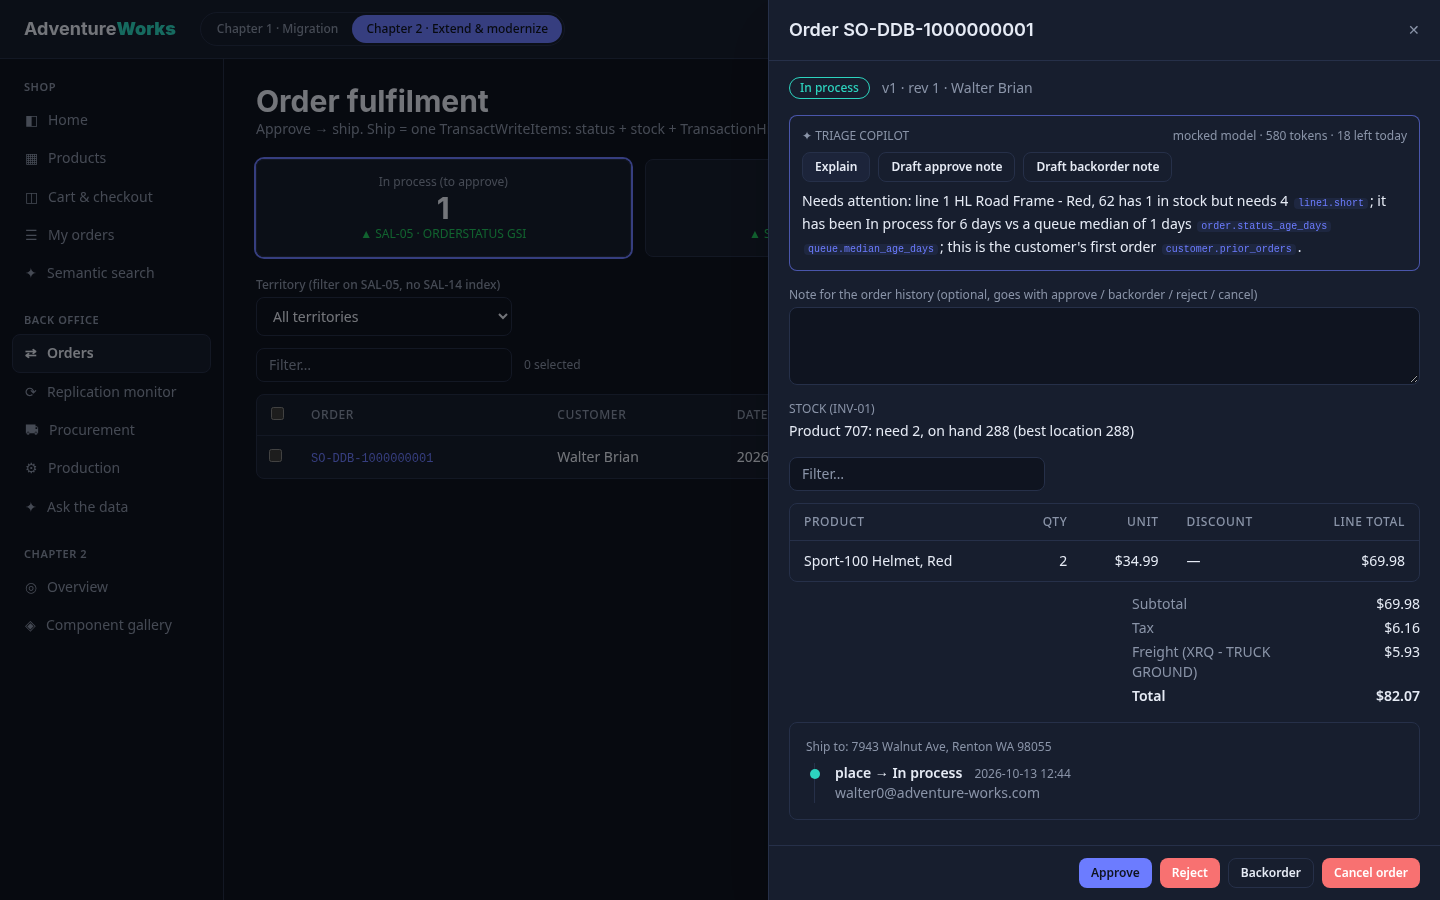
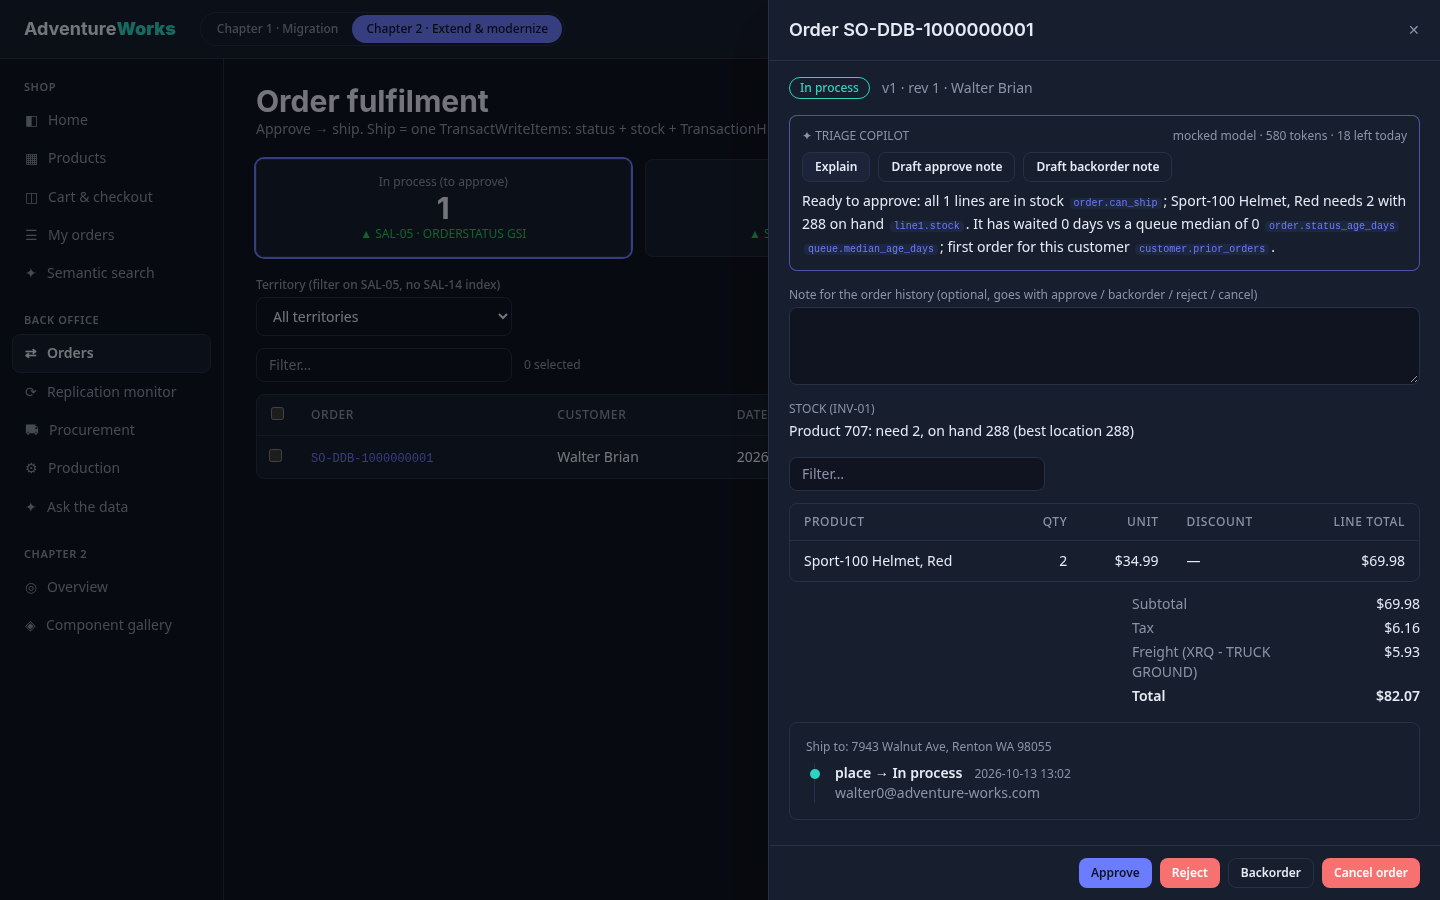
C2-6 mock triage text built from the shown order's facts; screenshots

Changed region(s): [[0.5625, 0.2178, 0.9688, 0.28]]

diff --git a/src/web/e2e/mockAi.ts b/src/web/e2e/mockAi.ts
@@ -17,20 +17,30 @@ const key = (q: string) => q.toLowerCase().replace(/[^a-z0-9]+/g, ' ').trim()
 
 const assist = (feature: string, kind: string, text: string, facts: Record<string, unknown>) => ({ feature, kind, text, facts,
   cites: [...text.matchAll(/\[([a-z0-9_.]+)\]/g)].map(m => m[1]), blocked: null, error: null, inputTokens: 520, outputTokens: 60, questionsLeft: 18, tokensLeft: 38800, mode: 'mock' })
-const orderFacts = { 'order.number': 'SO75123', 'order.status': 'In process', 'order.status_age_days': 6, 'queue.median_age_days': 1, 'order.lines': 2, 'order.total_due': 3953.99,
-  'order.ship_method': 'CARGO TRANSPORT 5', 'order.can_ship': false, 'customer.prior_orders': 0, 'line1.product': 'HL Road Frame - Red, 62', 'line1.qty': 4, 'line1.stock': 1, 'line1.short': 3,
-  'line2.product': 'Sport-100 Helmet, Blue', 'line2.qty': 1, 'line2.stock': 220, 'line2.short': 0 }
-export const triageMock = (kind: string) => kind === 'explain'
-  ? assist('triage', 'triage-explain', 'Needs attention: line 1 HL Road Frame - Red, 62 has 1 in stock but needs 4 [line1.short]; it has been In process for 6 days vs a queue median of 1 days [order.status_age_days] [queue.median_age_days]; this is the customer\'s first order [customer.prior_orders].', orderFacts)
-  : kind === 'approve-note' ? assist('triage', 'triage-approve-note', 'Approved SO75123 [order.number]: all 2 lines in stock [order.can_ship], 3953.99 due [order.total_due], ships via CARGO TRANSPORT 5 [order.ship_method].', orderFacts)
-  : assist('triage', 'triage-backorder-note', 'Backordered SO75123 [order.number]: HL Road Frame - Red, 62 short by 3 (in stock 1, ordered 4) [line1.short]. Ship once stock arrives.', orderFacts)
+type MockOrder = { number: string; status: number; orderDate?: unknown; totalDue?: unknown; shipMethodName?: unknown; lines: { name?: unknown; quantity: number; productId: number }[] }
+const stockOf = (pid: number) => (pid === 749 ? 3 : 288)
+// facts built from the order shown (like TriageFacts on the server), so the text matches the drawer
+export function orderFacts(o: MockOrder): Record<string, unknown> {
+  const f: Record<string, unknown> = { 'order.number': o.number, 'order.status': ['', 'In process', 'Approved', 'Backordered'][o.status] ?? String(o.status), 'order.status_age_days': 0,
+    'queue.median_age_days': 0, 'order.lines': o.lines.length, 'order.total_due': o.totalDue, 'order.ship_method': o.shipMethodName, 'customer.prior_orders': 0 }
+  o.lines.forEach((l, i) => { const s = stockOf(l.productId); Object.assign(f, { [`line${i + 1}.product`]: l.name, [`line${i + 1}.qty`]: l.quantity, [`line${i + 1}.stock`]: s, [`line${i + 1}.short`]: Math.max(0, l.quantity - s) }) })
+  f['order.can_ship'] = o.lines.every((_, i) => f[`line${i + 1}.short`] === 0)
+  return f
+}
+export function triageMock(kind: string, o: MockOrder) {
+  const f = orderFacts(o); const short = o.lines.findIndex((_, i) => (f[`line${i + 1}.short`] as number) > 0); const n = short + 1
+  if (kind === 'explain') return assist('triage', 'triage-explain', short >= 0
+    ? `Needs attention: line ${n} ${f[`line${n}.product`]} has ${f[`line${n}.stock`]} in stock but needs ${f[`line${n}.qty`]} [line${n}.short]. This is the customer's first order [customer.prior_orders].`
+    : `Ready to approve: all ${f['order.lines']} lines are in stock [order.can_ship]; ${f['line1.product']} needs ${f['line1.qty']} with ${f['line1.stock']} on hand [line1.stock]. It has waited ${f['order.status_age_days']} days vs a queue median of ${f['queue.median_age_days']} [order.status_age_days] [queue.median_age_days]; first order for this customer [customer.prior_orders].`, f)
+  if (kind === 'approve-note') return assist('triage', 'triage-approve-note', `Approved ${o.number} [order.number]: all ${f['order.lines']} lines in stock [order.can_ship], ${f['order.total_due']} due [order.total_due], ships via ${f['order.ship_method']} [order.ship_method].`, f)
+  return assist('triage', 'triage-backorder-note', short >= 0 ? `Backordered ${o.number} [order.number]: ${f[`line${n}.product`]} short by ${f[`line${n}.short`]} [line${n}.short]. Ship once stock arrives.` : `Backordered ${o.number} [order.number] at the customer's request; all ${f['order.lines']} lines are in stock [order.can_ship].`, f)
+}
 
 export function aiMock() {
   let left = 20, tokens = 40000
   const status = () => ({ enabled: true, mode: 'mock', chatModel: 'amazon.nova-pro-v1:0', embeddingModel: 'amazon.titan-embed-text-v2:0', rowLimit: 200, timeoutSeconds: 15,
     questionsLeft: left, tokensLeft: tokens, warehouseConnected: true })
   return (p: string, m: string, url: URL, body: () => Record<string, unknown>): { status?: number; json: unknown } | null => {
-    const tri = p.match(/^\/back-office\/orders\/\d+\/assist\/([a-z-]+)$/); if (tri) return { json: triageMock(tri[1]) }
     if (p === '/ai/status') return { json: status() }
     if (p === '/ai/examples') return { json: examples }
     if (p === '/ai/search') return { json: { query: url.searchParams.get('q'), mode: 'mock', hits } }

diff --git a/src/web/e2e/mockApi.ts b/src/web/e2e/mockApi.ts
@@ -1,7 +1,7 @@
 import type { Page, Route } from '@playwright/test'
 import { procurementMock } from './mockProcurement'
 import { productionMock } from './mockProduction'
-import { aiMock } from './mockAi'
+import { aiMock, triageMock } from './mockAi'
 
 // Stateful in-memory stand-in for /api/v2 (C2-2 shop + back office), used when no real backend is configured.
 // Shapes follow the generated OpenAPI types; the real flow runs the same spec against the app image (after.yml).
@@ -65,7 +65,9 @@ export async function mockApi(page: Page) {
       return json(r, me)
     }
     if (p === '/auth/logout') { me = { authenticated: false, name: null, email: null, customerId: null, roles: [] }; return r.fulfill({ status: 204 }) }
-    const aiRes = p.startsWith('/ai/') || p.includes('/assist') ? ai(p, m, url, body) : null
+    const tri = p.match(/^\/back-office\/orders\/(\d+)\/assist\/([a-z-]+)$/)
+      if (tri) { const o = orders.find(x => x.id === Number(tri[1])); return o ? json(r, triageMock(tri[2], o as never)) : json(r, { title: 'Not found' }, 404) }
+      const aiRes = p.startsWith('/ai/') ? ai(p, m, url, body) : null
     if (aiRes) return json(r, aiRes.json, aiRes.status ?? 200)
     if (p === '/categories') return json(r, cats)
     const sub = p.match(/^\/subcategories\/(\d+)\/products$/); if (sub) return json(r, Number(sub[1]) === 2 ? [bike] : [{ ...helmet, listPrice: price.listPrice }])
